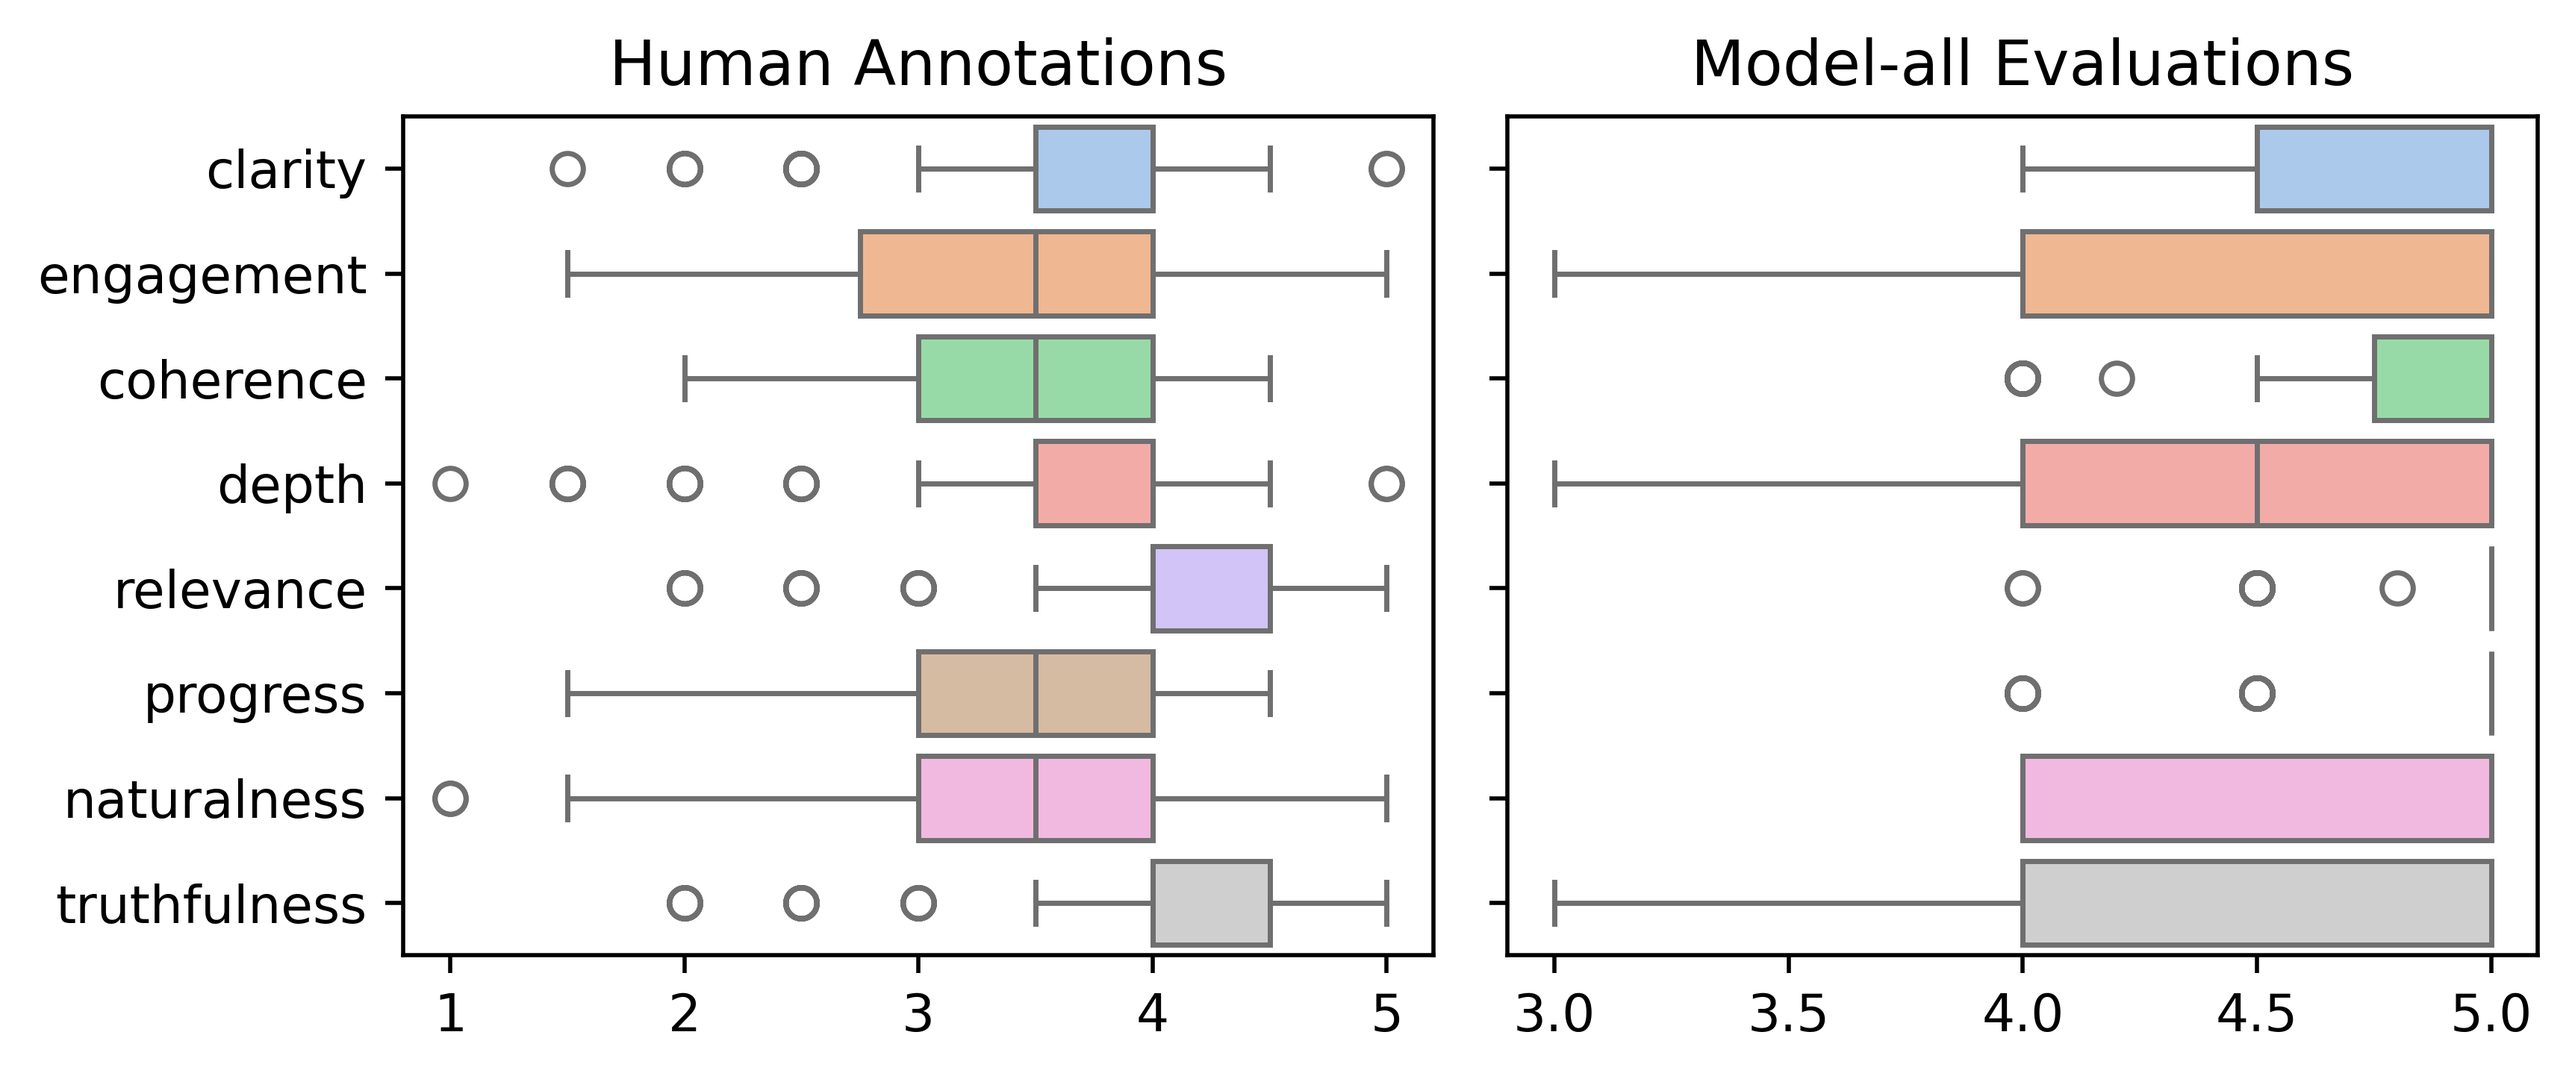
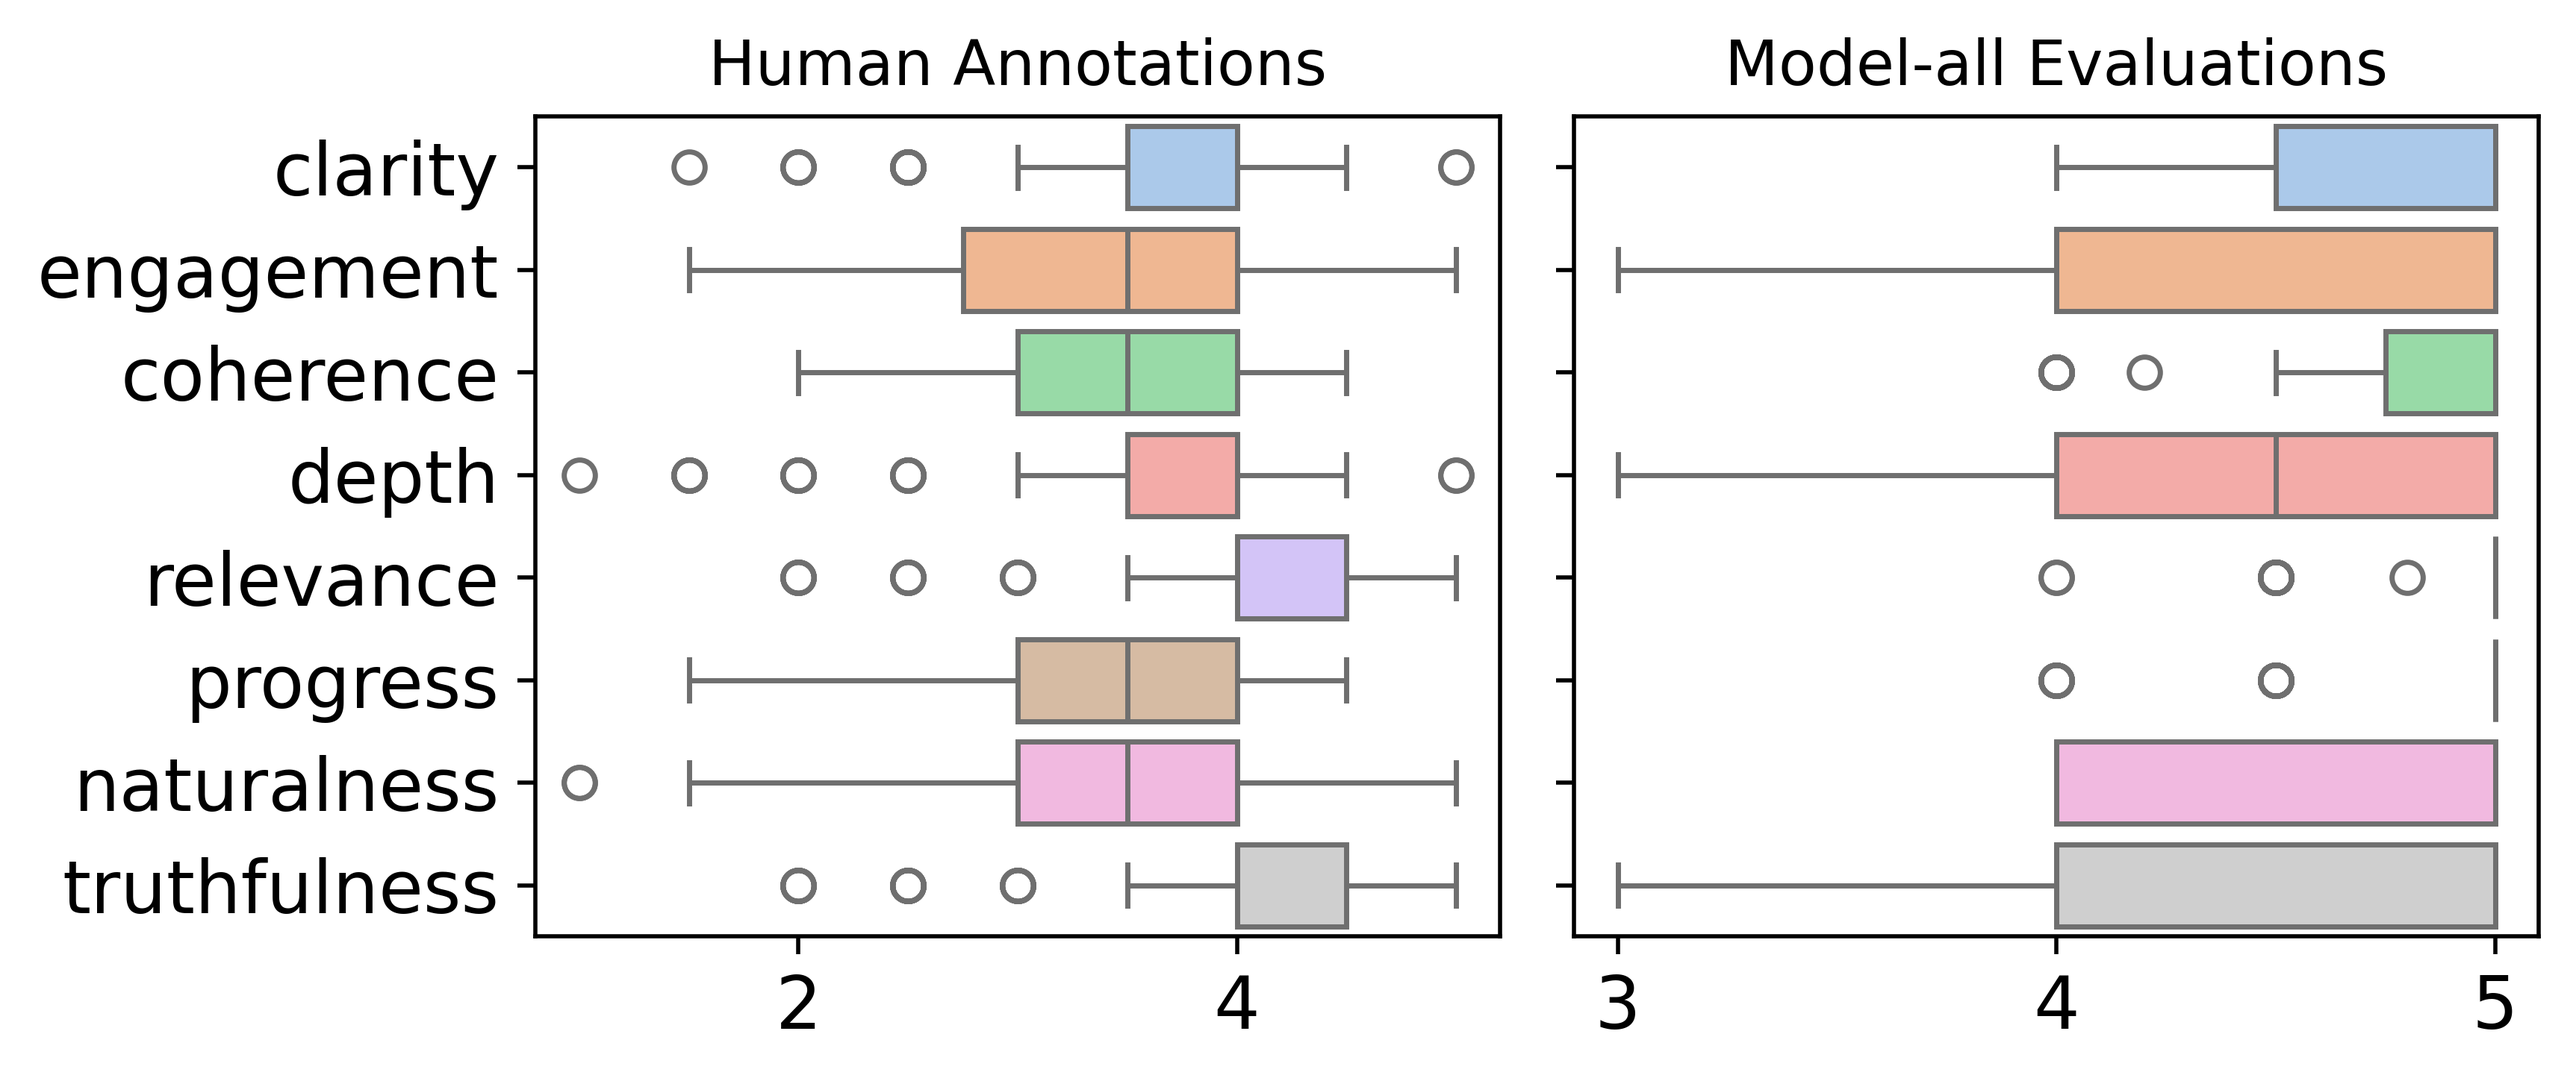
Update figures

diff --git a/case_study/human_alignment_and_significant_test.py b/case_study/human_alignment_and_significant_test.py
@@ -34,6 +34,8 @@ def measure_correlation(human_annotation_csv, model_evaluation_csv, filter_filen
     sns.boxplot(data=human_df_filtered.drop(columns=['filename', 'conversation_id', 'title'], errors='ignore'), 
                 orient='h', palette='pastel', ax=axes[0])
     axes[0].set_title('Human Annotations')
+    axes[0].tick_params(axis='y', labelsize=14)
+    axes[0].tick_params(axis='x', labelsize=14)
     # axes[0].set_xlim(0.8, 5.2)
 
     # Subplot 2: Model evaluations
@@ -42,6 +44,7 @@ def measure_correlation(human_annotation_csv, model_evaluation_csv, filter_filen
     model_name = filter_filename.split('_')[0].split('-')[1] if filter_filename else 'all'
     axes[1].set_title(f'Model-{model_name} Evaluations')
     axes[1].set_yticklabels([]) # Remove the tick labels for the second subfigure
+    axes[1].tick_params(axis='x', labelsize=14)
     # axes[1].set_xlim(0.8, 5.2)
 
     plt.tight_layout()
@@ -140,6 +143,9 @@ def caculate_alignment(tau_values, model_name=None, tau_axis=None):
     plt.savefig(f'figure/{title2}.png', dpi=500, bbox_inches='tight')
 
 def plot_all_correlation_comparison_over_models(human_annotation_csv, model_evaluation_csv, filenames=None):
+    """
+    Figure 6: Comparison between human annotation and model evaluation scores.
+    """
     # Load data
     human_df = pd.read_csv(human_annotation_csv).drop(columns=['comment'], errors='ignore').fillna(0)
     model_df = pd.read_csv(model_evaluation_csv).fillna(0)
@@ -182,6 +188,8 @@ def plot_all_correlation_comparison_over_models(human_annotation_csv, model_eval
         ax.set_xticklabels([1, 2, 3, 4, 5])
         ax.set_xticks([1, 2, 3, 4, 5])
         ax.set_xlim(0.1, 6)
+        ax.tick_params(axis='x', labelsize=10)
+        ax.tick_params(axis='y', labelsize=10)
         ax.set_ylabel('')  # Remove the y-axis label ('Metric')
         ax.set_xlabel('')  # Remove the y-axis label ('Score')
         ax.set_title(f'{filename.split("_")[0].split("-")[1]}', fontsize=10)
@@ -263,6 +271,8 @@ import seaborn as sns
 from scipy.stats import pearsonr, spearmanr, kendalltau
 
 def plot_metric_correlations_all_with_significance(human_annotation_csv, model_evaluation_csv):
+    """ Figure 7: Human alignment correlation coefficients
+    """
     hatches = ['xxxxxx', '/////', '']  # For Pearson, Spearman, Kendalltau
     # Load data
     human_df = pd.read_csv(human_annotation_csv).drop(columns=['comment'], errors='ignore').fillna(0)
@@ -334,14 +344,14 @@ def plot_metric_correlations_all_with_significance(human_annotation_csv, model_e
         for patch in bar_container.patches:
             patch.set_hatch(hatches[i])
 
-    plt.xticks(fontsize=6)
-    plt.yticks(fontsize=6)
+    plt.xticks(fontsize=8)
+    plt.yticks(fontsize=8)
     plt.xlim(-0.45, 0.45)
     plt.axvline(0, color='black', linewidth=0.8, linestyle='--')
     # plt.title('Model-Human Correlations per Metric (with significance)')
     plt.ylabel('')
     plt.xlabel('')
-    plt.legend(loc='upper left', bbox_to_anchor=(0, 1), fontsize=5)
+    plt.legend(loc='upper left', bbox_to_anchor=(0, 1), fontsize=6)
     plt.tight_layout()
 
     # Save figure
@@ -351,6 +361,7 @@ def plot_metric_correlations_all_with_significance(human_annotation_csv, model_e
 
 
 def human_alignment(human_annotation_csv, model_evaluation_csv, tau_axis):
+    # Mean score per model
     if tau_axis == 'mean':
         for f in json_files:
             print('*'*50, f)
@@ -364,16 +375,17 @@ def human_alignment(human_annotation_csv, model_evaluation_csv, tau_axis):
         caculate_alignment(tau_values, model_name=model_name,tau_axis=tau_axis)
     # Overall
     tau_values = measure_correlation(human_annotation_csv=human_annotation_csv, model_evaluation_csv=model_evaluation_csv, filter_filename=None, tau_axis=tau_axis)
+    # Figure 6:Comparison between human annotation and model evaluation scores.
     caculate_alignment(tau_values, model_name='all',tau_axis=tau_axis)
 
 def analysis_human_annotator(human_annotation_csv, model_evaluation_csv):
     # 1. Calculate alignment over sample and visulize it
     # human_alignment(human_annotation_csv, model_evaluation_csv, tau_axis='sample')
     # 2. Calculate alignment over metric and visulize it
-    # human_alignment(human_annotation_csv, model_evaluation_csv, tau_axis='metric')
+    human_alignment(human_annotation_csv, model_evaluation_csv, tau_axis='metric')
     # 3. Calculate alignment over mean metric
-    # human_alignment(human_annotation_csv, model_evaluation_csv, tau_axis='mean')
-    # 3. Plot overall comparsion between models and human
+    human_alignment(human_annotation_csv, model_evaluation_csv, tau_axis='mean')
+    # 4. Plot overall comparsion between models and human
     plot_all_correlation_comparison_over_models(human_annotation_csv, model_evaluation_csv, filenames=json_files)    
 
 def compare_kappa_annotations_by_index(file1, file2, annotation_columns, output_file):
@@ -494,5 +506,7 @@ if __name__ == "__main__":
     # compare_kappa_annotations_by_index(file1=human_annotation_csv_1, file2=human_annotation_csv_2, annotation_columns=metrics, output_file=human_annotation_csv_merged)
     
     # Step 2: Human alignment analysis
-    # analysis_human_annotator(human_annotation_csv=human_annotation_csv_merged, model_evaluation_csv=model_evaluation_csv)
-    plot_metric_correlations_all_with_significance(human_annotation_csv=human_annotation_csv_merged, model_evaluation_csv=model_evaluation_csv)
+    # Figure 6:
+    analysis_human_annotator(human_annotation_csv=human_annotation_csv_merged, model_evaluation_csv=model_evaluation_csv)
+    # Figure 7: Human alignment correlation coefficients
+    # plot_metric_correlations_all_with_significance(human_annotation_csv=human_annotation_csv_merged, model_evaluation_csv=model_evaluation_csv)

diff --git a/utils/plot_llm_rubric_results.py b/utils/plot_llm_rubric_results.py
@@ -46,7 +46,7 @@ def plot_llm_rubric(fpath):
         ax.plot(angles, values, label=model, marker=markers[i % len(markers)],
         color=colors(i),
         linewidth=2,
-        markersize=6)
+        markersize=10)
         # Fill area under the plot
         ax.fill(angles, values, color=colors(i), alpha=0.1)
 
@@ -56,13 +56,19 @@ def plot_llm_rubric(fpath):
     ax.set_yticks(scale)
     ax.set_yticklabels(scale)
 
+    ax.set_xticklabels([])
     # Optional: annotate topic names around the circle
-    # for i, label in enumerate(df.columns):
-    #     angle = angles[i]
-    #     ax.text(angle, 5.4, f"{label}", ha='center', va='center', fontsize=6)
+    for i, label in enumerate(df.columns):
+        angle = angles[i]
+        pad = 6.2
+        if i == 2 or i==6: # Reduce margin on top and bottom
+            pad = 5.6
+        elif i == 4:
+            pad = 6.4
+        ax.text(angle, pad, f"{label}", ha='center', va='center', fontsize=14)
 
     # Add legend
-    ax.legend(loc='upper left', bbox_to_anchor=(1.0, 1.08), fontsize=10)
+    ax.legend(loc='upper left', bbox_to_anchor=(1.05, 1.08), fontsize=12)
 
     # Save the plot
     plt.tight_layout()

diff --git a/utils/plot_result_per_domain.py b/utils/plot_result_per_domain.py
@@ -153,7 +153,7 @@ def compute_result_per_metric(fpaths):
                     marker=markers[i % len(markers)],
                     color=base_color,
                     linewidth=1.5,
-                    markersize=6,
+                    markersize=10,
                     alpha=alpha_line)
 
             ax.fill(angles, values,
@@ -161,10 +161,11 @@ def compute_result_per_metric(fpaths):
                     alpha=alpha_fill)
 
         ax.set_ylim(2, 5.15)
-        ax.set_yticks([2.0, 2.5, 3.0, 3.5, 4.0, 4.5, 5.0])
-        ax.set_yticklabels([2.0, 2.5, 3.0, 3.5, 4.0, 4.5, 5.0], fontsize=7)
+        ax.set_yticks([2.0, 3.0, 4.0, 5.0])
+        ax.set_xticklabels([f"[{i+1}]" for i in range(17)], fontsize=12)
+        ax.set_yticklabels([2, 3, 4, 5], fontsize=14)
 
-        ax.set_title(f"({idx+1}) {metric}", fontsize=12)
+        ax.set_title(f"({idx+1}) {metric}", fontsize=16)
 
     # Single legend for all subplots
     handles, labels = axes[0].get_legend_handles_labels()

diff --git a/case_study/plot_human_alignment.py b/case_study/plot_human_alignment.py
@@ -52,7 +52,7 @@ for i, model in enumerate(df.index):
         if marker:
             offset = 0.15 * (j - 1)  # Adjust spacing between correlation types
             ax.text(width + np.sign(width) * 0.01, i + offset, marker,
-                    va='center', ha='left' if width > 0 else 'right', fontsize=8, color='black')
+                    va='center', ha='left' if width > 0 else 'right', fontsize=12, color='black')
 
 
 plt.axvline(0, color='black', linewidth=0.8, linestyle='--')
